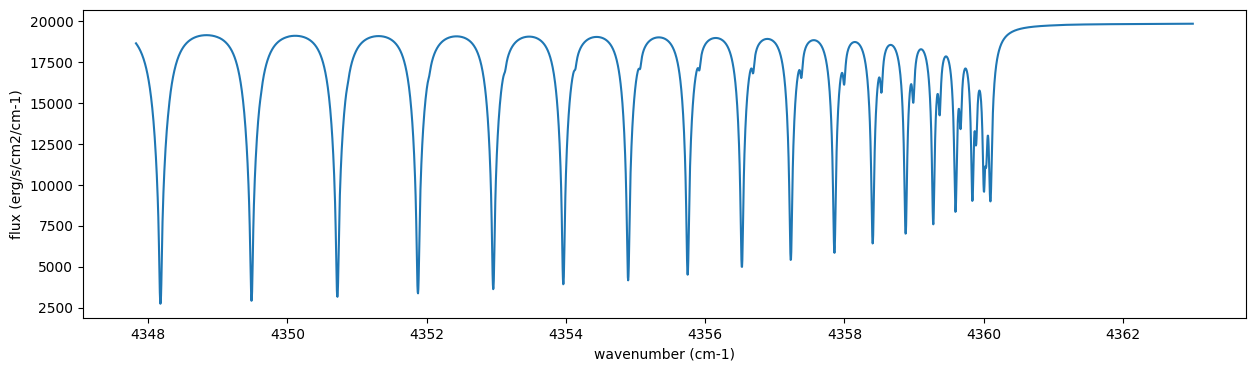
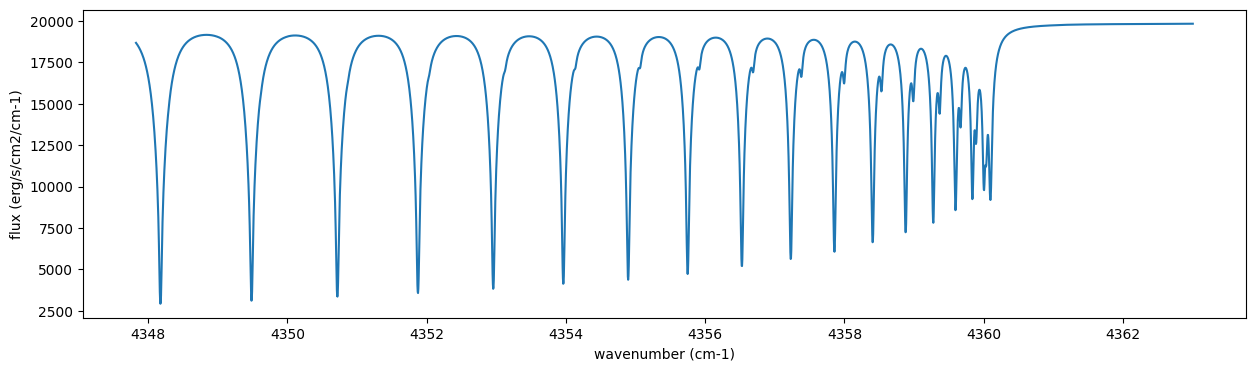
generated doc

diff --git a/documents/tutorials/equilibrium_chemistry.rst b/documents/tutorials/equilibrium_chemistry.rst
@@ -1,7 +1,7 @@
 Emission Spectroscopy with Equilibirum Chemistry
 ================================================
 
-Last update: August 24th (2025) Hajime Kawahara for v2.1
+Last update: March 23th (2026) Hajime Kawahara for v2.1
 
 In this getting started guide, we will use ExoJAX to simulate a
 high-resolution emission spectrum from an atmosphere with CO molecular
@@ -9,6 +9,10 @@ absorption and hydrogen molecule CIA continuum absorption as the opacity
 sources. We assume the thermochemical equilibrium. We will then add
 appropriate noise to the simulated spectrum to create a mock spectrum
 and perform spectral retrieval using NumPyro’s HMC NUTS.
+
+To compute Thermo Chemical Equilibrium (TCE), we use a differentiable
+TCE calculator,
+`ExoGibbs <https://github.com/HajimeKawahara/exogibbs>`__ (v0.3.9)
 
 First, we recommend 64-bit if you do not think about numerical errors.
 Use jax.config to set 64-bit. (But note that 32-bit is sufficient in
@@ -77,7 +81,7 @@ the database name in the ExoMol website (https://www.exomol.com/).
 .. parsed-literal::
 
     HITRAN exact name= (12C)(16O)
-    radis engine =  vaex
+    radis engine =  pytables
     Molecule:  CO
     Isotopologue:  12C-16O
     ExoMol database:  None
@@ -90,7 +94,7 @@ the database name in the ExoMol website (https://www.exomol.com/).
 
 .. parsed-literal::
 
-    /home/kawahara/anaconda3/envs/myenv39/lib/python3.9/site-packages/radis-0.16-py3.9.egg/radis/api/exomolapi.py:687: AccuracyWarning: The default broadening parameter (alpha = 0.07 cm^-1 and n = 0.5) are used for J'' > 80 up to J'' = 152
+    /home/kawahara/miniconda3/lib/python3.12/site-packages/radis-0.16-py3.12.egg/radis/api/exomolapi.py:687: AccuracyWarning: The default broadening parameter (alpha = 0.07 cm^-1 and n = 0.5) are used for J'' > 80 up to J'' = 152
       warnings.warn(
 
 
@@ -115,10 +119,8 @@ tempreature range we will use is 500-1500K.
 
 .. parsed-literal::
 
-    OpaPremodit: params automatically set.
     default elower grid trange (degt) file version: 2
     Robust range: 485.7803992045456 - 1514.171191195336 K
-    OpaPremodit: Tref_broadening is set to  866.0254037844389 K
     max value of  ngamma_ref_grid : 9.450919102366303
     min value of  ngamma_ref_grid : 7.881095721823979
     ngamma_ref_grid grid : [7.88109541 9.4509201 ]
@@ -131,11 +133,15 @@ tempreature range we will use is 500-1500K.
 
     uniqidx: 0it [00:00, ?it/s]
 
-
 .. parsed-literal::
 
     Premodit: Twt= 1108.7151960064205 K Tref= 570.4914318566549 K
     Making LSD:|####################| 100%
+
+
+.. parsed-literal::
+
+    
 
 
 Then let’s compute cross section for two different temperature 500 and
@@ -223,9 +229,9 @@ Sets chemistry presets
 
 .. code:: ipython3
 
-    from exogibbs.presets.ykb4 import prepare_ykb4_setup
+    from exogibbs.presets.fastchem import chemsetup
     # chemical setup
-    chem = prepare_ykb4_setup()
+    chem = chemsetup()
     idx_co = chem.species.index("C1O1")
     print("idx for CO=",idx_co, "JANAF name", chem.species[idx_co])  # check index of CO
     idx_h2 = chem.species.index("H2")
@@ -235,9 +241,12 @@ Sets chemistry presets
 
 .. parsed-literal::
 
-    idx for CO= 26 JANAF name C1O1
-    idx for H2= 1 JANAF name H2
-    element: ('C', 'H', 'He', 'K', 'N', 'Na', 'O', 'P', 'S', 'Ti', 'V', 'e-')
+    restricting species to those composed of the default elements only.
+    fastchem presets in ExoGibbs
+    number of species: 523 elements: 28 molecules: 495
+    idx for CO= 102 JANAF name C1O1
+    idx for H2= 331 JANAF name H2
+    element: ('Al', 'Ar', 'C', 'Ca', 'Cl', 'Co', 'Cr', 'Cu', 'F', 'Fe', 'Ge', 'H', 'He', 'K', 'Mg', 'Mn', 'N', 'Na', 'Ne', 'Ni', 'O', 'P', 'S', 'Si', 'Ti', 'V', 'Zn', 'e-')
 
 
 Sets solar abundance (AAG21) as the elemental vector. Do not forget e-!
@@ -249,6 +258,7 @@ Sets solar abundance (AAG21) as the elemental vector. Do not forget e-!
     solar_abundance = nsol()
     nsol_vector = jnp.array([solar_abundance[el] for el in chem.elements[:-1]]) # no solar abundance for e-
     element_vector = jnp.append(nsol_vector, 0) 
+        
     print("element_vector:", element_vector)
 
 
@@ -256,9 +266,13 @@ Sets solar abundance (AAG21) as the elemental vector. Do not forget e-!
 
     Database for solar abundance =  AAG21
     Asplund, M., Amarsi, A. M., & Grevesse, N. 2021, arXiv:2105.01661
-    element_vector: [2.66271344e-04 9.23260873e-01 7.57398483e-02 1.08473694e-07
-     6.24200958e-05 1.53223166e-06 4.52193620e-04 2.37314585e-07
-     1.21709487e-05 8.61637180e-08 7.33372179e-09 0.00000000e+00]
+    element_vector: [2.48498877e-06 2.21474857e-06 2.66271344e-04 1.84214763e-06
+     1.88505676e-07 8.04126604e-08 3.84879191e-07 1.39741188e-08
+     2.31912646e-08 2.66271344e-05 3.84879191e-09 9.23260873e-01
+     7.57398483e-02 1.08473694e-07 3.27585319e-05 2.42842352e-07
+     6.24200958e-05 1.53223166e-06 1.06004531e-04 1.46326987e-06
+     4.52193620e-04 2.37314585e-07 1.21709487e-05 2.98761362e-05
+     8.61637180e-08 7.33372179e-09 3.35215762e-08 0.00000000e+00]
 
 
 The mass mixing ratio of CO (MMR) should be computed based on the
@@ -266,13 +280,25 @@ thermochemical equilibirum.
 
 .. code:: ipython3
 
-    from exogibbs.api.equilibrium import equilibrium_profile, EquilibriumOptions
+    from exogibbs.api import get_default_equilibrium_grid_path
+    from exogibbs.api import load_equilibrium_grid_netcdf
+    from exogibbs.api.equilibrium import (
+        EquilibriumOptions,
+        GridEquilibriumInitializer,
+        equilibrium_profile,
+    )
+    
     from exojax.atm.atmconvert import vmr_to_mmr
     from exojax.database.molinfo.mass import isotope_molmass
     
     # Thermodynamic conditions
     Pref = 1.0  # bar, reference pressure
-    opts = EquilibriumOptions(epsilon_crit=1e-11, max_iter=1000)
+    
+    grid_path = get_default_equilibrium_grid_path("fastchem")
+    grid = load_equilibrium_grid_netcdf(str(grid_path))
+    initializer = GridEquilibriumInitializer(grid=grid, preset_name="fastchem")
+    method = "vmap_cold"
+    opts = EquilibriumOptions(epsilon_crit=1e-11, max_iter=1000, method=method)
     
     res = equilibrium_profile(
         chem,
@@ -280,6 +306,7 @@ thermochemical equilibirum.
         art.pressure,
         element_vector,
         Pref=Pref,
+        initializer=initializer,
         options=opts,
     )
     nk_result = res.x
@@ -351,7 +378,7 @@ absorption <https://en.wikipedia.org/wiki/Collision-induced_absorption_and_emiss
 
 .. parsed-literal::
 
-    H2-H2
+    Load CIA:  H2-H2
 
 
 Before running the radiative transfer, we need cross sections for
@@ -507,11 +534,6 @@ model has six parameters.
 
 .. code:: ipython3
 
-    from jax import jit
-    soleve_thermochemical_equilibirum = jit(lambda T, P, b_element_vector: equilibrium_profile(chem, T, P, b_element_vector, Pref=Pref, options=opts)) 
-
-.. code:: ipython3
-
     
     def fspec(T0, alpha, g, RV, vsini, b_element_vector_in):
         #molecule
@@ -519,7 +541,7 @@ model has six parameters.
         xsmatrix = opa.xsmatrix(Tarr, art.pressure)
         
         # MMR profile from equilibrium chemistry
-        res = soleve_thermochemical_equilibirum(Tarr, art.pressure, b_element_vector_in)
+        res = equilibrium_profile(chem, Tarr, art.pressure, b_element_vector_in, Pref=Pref, options=opts)
         nk_result = res.x
         vmr_co = nk_result[:, idx_co]
         mmr_arr = vmr_to_mmr(vmr_co, molmass, mean_molecular_weight)
@@ -553,12 +575,12 @@ various parameter sets.
 
 .. parsed-literal::
 
-    [<matplotlib.lines.Line2D at 0x74a72a7fcee0>]
+    [<matplotlib.lines.Line2D at 0x75555849cf20>]
 
 
 
 
-.. image:: equilibrium_chemistry_files/equilibrium_chemistry_54_1.png
+.. image:: equilibrium_chemistry_files/equilibrium_chemistry_53_1.png
 
 
 NumPyro is a probabilistic programming language (PPL), which requires
@@ -578,6 +600,13 @@ arguments of ``fspec``.
     import numpyro.distributions as dist
     import numpyro
     from jax import random
+
+
+.. parsed-literal::
+
+    /home/kawahara/miniconda3/lib/python3.12/site-packages/tqdm/auto.py:21: TqdmWarning: IProgress not found. Please update jupyter and ipywidgets. See https://ipywidgets.readthedocs.io/en/stable/user_install.html
+      from .autonotebook import tqdm as notebook_tqdm
+
 
 .. code:: ipython3
 
@@ -647,19 +676,19 @@ lunch break!
 
 .. parsed-literal::
 
-    sample: 100%|██████████| 1500/1500 [15:38:27<00:00, 37.54s/it, 255 steps of size 8.95e-03. acc. prob=0.94]   
+    sample: 100%|██████████| 1500/1500 [20:52:48<00:00, 50.11s/it, 511 steps of size 5.38e-03. acc. prob=0.95]    
 
 .. parsed-literal::
 
     
                     mean       std    median      5.0%     95.0%     n_eff     r_hat
-            RV     40.06      0.08     40.06     39.95     40.20    676.46      1.00
-            T0   1207.13     14.56   1206.39   1183.92   1230.80    395.24      1.00
-         alpha      0.11      0.01      0.11      0.09      0.14    419.41      1.00
-          logZ     -0.04      0.06     -0.04     -0.14      0.06    399.38      1.00
-          logg      4.32      0.12      4.31      4.12      4.52    401.06      1.00
-       sigmain    498.59     15.17    497.60    474.93    525.32    613.82      1.00
-         vsini      9.65      0.16      9.65      9.37      9.90    623.04      1.00
+            RV     39.97      0.09     39.97     39.82     40.11    567.18      1.00
+            T0   1207.49     20.79   1204.33   1175.80   1241.14    185.37      1.04
+         alpha      0.11      0.02      0.11      0.07      0.15    213.67      1.04
+          logZ     -0.03      0.10     -0.03     -0.19      0.14    223.38      1.03
+          logg      4.35      0.20      4.34      4.02      4.67    220.31      1.03
+       sigmain    519.94     14.67    519.52    496.87    545.15    497.82      1.00
+         vsini     10.01      0.19     10.02      9.67     10.28    409.20      1.00
     
     Number of divergences: 0
 
@@ -707,7 +736,7 @@ is complete, let’s write a predictive model for the spectrum.
 
 
 
-.. image:: equilibrium_chemistry_files/equilibrium_chemistry_67_0.png
+.. image:: equilibrium_chemistry_files/equilibrium_chemistry_66_0.png
 
 
 .. code:: ipython3
@@ -742,7 +771,7 @@ display a corner plot. Here, we’ve used ArviZ for visualization.
 
 
 
-.. image:: equilibrium_chemistry_files/equilibrium_chemistry_70_0.png
+.. image:: equilibrium_chemistry_files/equilibrium_chemistry_69_0.png
 
 
 We see the strong degeneracy between metalicity and gravity!!!
